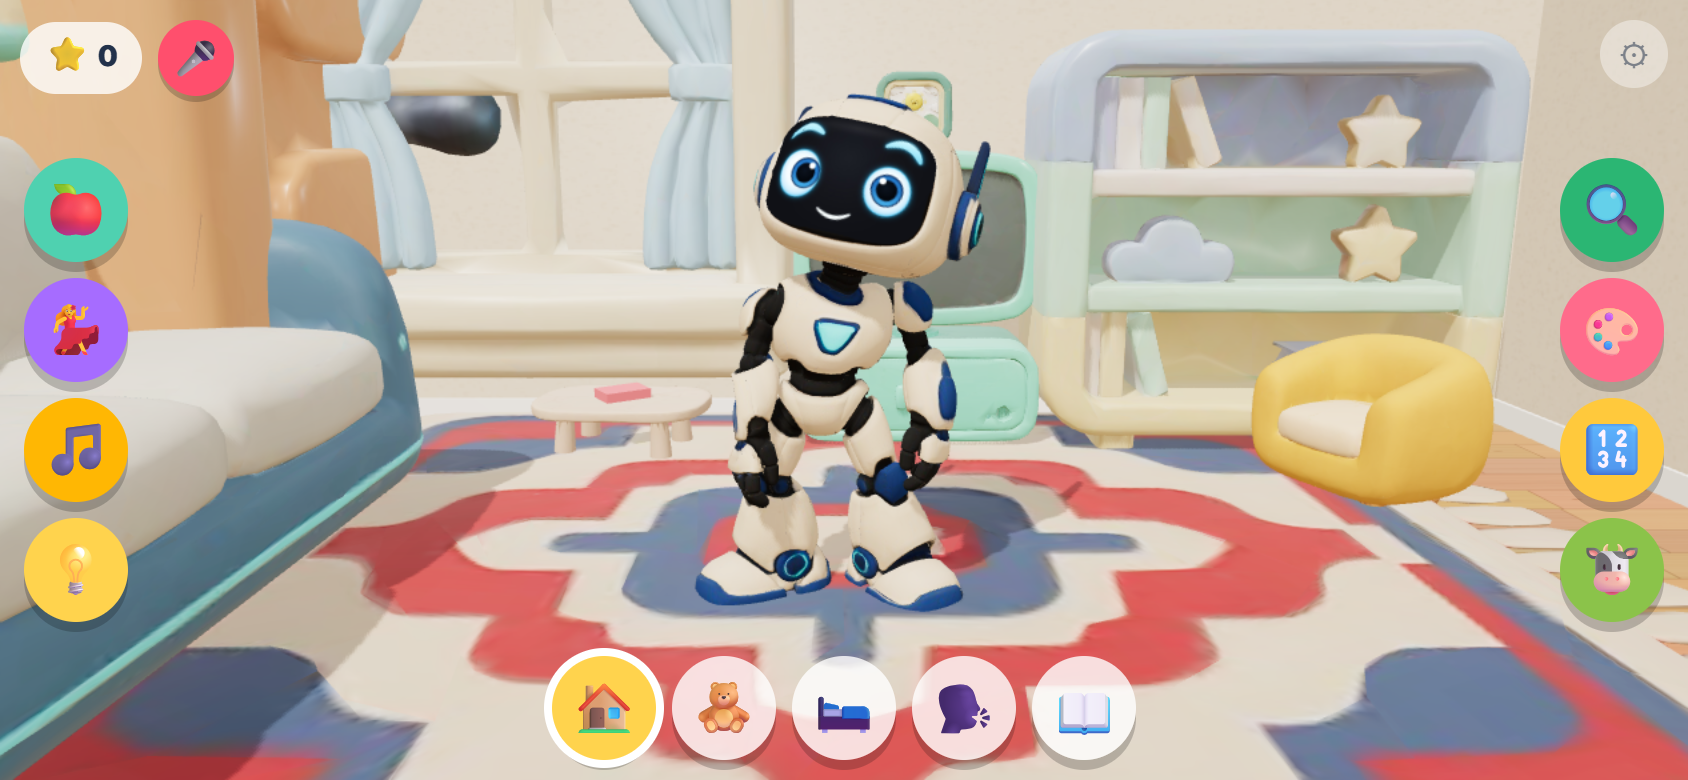
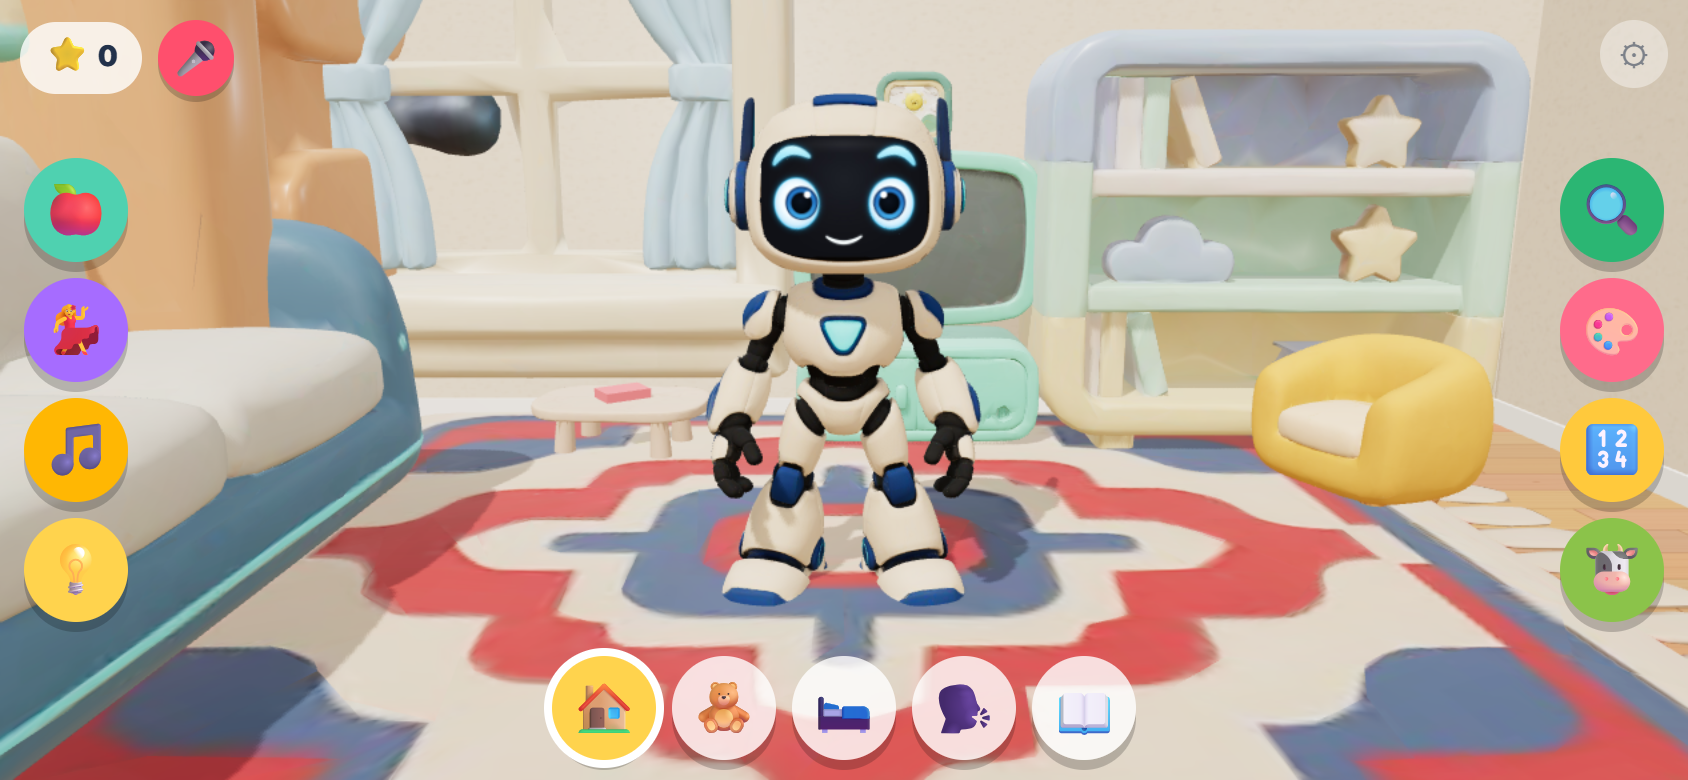
Living room portrait layout (small window, carpet, sofa and armchair in view), ball 2.5x bigger, wardrobe visible on phones

Changed region(s): [[0.4005, 0.1231, 0.6161, 0.8], [0.6161, 0.6154, 0.6469, 0.6769]]

diff --git a/index.html b/index.html
@@ -812,7 +812,8 @@ function setMode(m){
 function wake(){setMode('idle');say('wake');SFX.beep();setFace('shock',600);kick('squash',8);speak()}
 
 // ---------- Ball ----------
-const ball=new THREE.Mesh(new THREE.SphereGeometry(.3,28,20),new THREE.MeshStandardMaterial({color:0xffffff,roughness:.4,
+const BR=.75; // ball radius (2.5x the first one): sets its look, the floor bounce, the tap area and how close Googoo stops
+const ball=new THREE.Mesh(new THREE.SphereGeometry(BR,28,20),new THREE.MeshStandardMaterial({color:0xffffff,roughness:.4,
   map:spriteTex(x=>{x.fillStyle='#fff';x.fillRect(0,0,128,128);x.fillStyle='#ff7a59';for(let i=0;i<4;i++)x.fillRect(i*32,0,16,128)})}));
 ball.castShadow=true;ball.visible=false;scene.add(ball);const BALLMAT=ball.material;
 const bv=new THREE.Vector3();
@@ -1226,11 +1227,11 @@ let propsOn=false;const GOT=new Set(),ASKED=new Set();
 // id: {f file, k size (longest side = RB0.h*k, Googoo = 1), ry, x, z, y, room, cast (casts a shadow: only Googoo and the big furniture), sy (flatten, for rugs), back/side (flush with the back/left wall), nosq (wall piece: no portrait squeeze), off (hidden)}
 const PROPS={
   // living room
-  window:{f:'living_window_curtains',k:1.2,x:-3.3,y:.9,back:1,room:'home'}, tv:{f:'living_tv_cabinet',k:.62,x:.8,back:1,room:'home',cast:1},
+  window:{f:'living_window_curtains',k:1.2,x:-3.3,y:.9,back:1,room:'home',pt:{k:.36,x:-1.6,y:2.4}}, tv:{f:'living_tv_cabinet',k:.62,x:.8,back:1,room:'home',cast:1},
   bookshelf:{f:'living_bookshelf',k:.8,x:4.5,back:1,room:'home',cast:1}, picture:{f:'living_picture_frame',k:.5,x:.8,y:3.2,back:1,room:'home'},
   door:{f:'living_door',k:1.2,ry:Math.PI/2,z:-3.7,side:1,room:'home',nosq:1}, floorlamp:{f:'living_floor_lamp',k:1,ry:.5,x:-6.9,z:-1.5,room:'home',nosq:1},
-  sofa:{f:'living_sofa',k:.95,ry:Math.PI/2,z:1,side:1,room:'home',cast:1,nosq:1}, chair:{f:'living_armchair',k:.6,ry:-1.15,x:5.1,z:-2.4,room:'home'},
-  carpet:{f:'living_carpet_persian',k:1.4,ry:Math.PI/2,x:0,z:-.8,sy:.12,room:'home'}, table:{f:'living_coffee_table',k:.5,ry:Math.PI/2,x:-2.4,z:-3.7,room:'home'},
+  sofa:{f:'living_sofa',k:.95,ry:Math.PI/2,z:1,side:1,room:'home',cast:1,nosq:1,pt:{k:.6,x:-2.3,z:-3.2,ry:0}}, chair:{f:'living_armchair',k:.6,ry:-1.15,x:5.1,z:-2.4,room:'home',pt:{k:.85,x:2.5,z:-2.2,ry:-.6}},
+  carpet:{f:'living_carpet_persian',k:1.4,ry:Math.PI/2,x:0,z:-.8,sy:.12,room:'home',pt:{k:.42,z:.4}}, table:{f:'living_coffee_table',k:.5,ry:Math.PI/2,x:-2.4,z:-3.7,room:'home',pt:{k:.7,x:-1.5,z:-1.1}},
   korsi:{f:'living_korsi',k:.9,x:3,z:-2.8,room:'home',off:1,cast:1}, // winter item: loaded but hidden (off); drop off:1 for the winter season
   // play room (teddy and cow stay in front of Googoo)
   toybox:{f:'toy_box',k:.6,x:-2.6,back:1,room:'play'}, piano:{f:'toy_piano',k:.45,x:.2,back:1,room:'play'}, blocks:{f:'toy_blocks',k:.4,x:2.7,back:1,room:'play'},
@@ -1238,7 +1239,7 @@ const PROPS={
   teddy:{f:'toy_teddy_bear',k:.49,ry:.3,x:-2.1,z:1.6,room:'play'}, cow:{f:'farm_cow',k:.27,ry:-.4,x:2.1,z:1.6,room:'play'},
   // bedroom
   bed:{f:'bedroom_bed',k:.75,ry:-.15,x:-.7,z:-4.9,room:'bed',cast:1}, lamp:{f:'bedroom_lamp',k:.7,x:2.4,z:-4.6,y:.62,room:'bed'},
-  nightstand:{f:'bedroom_nightstand',k:.225,x:2.4,z:-4.6,room:'bed'}, wardrobe:{f:'bedroom_wardrobe',k:.95,x:6,back:1,room:'bed',cast:1,nosq:1}, rug:{f:'bedroom_rug',k:1.2,x:0,z:.2,sy:.12,room:'bed'}};
+  nightstand:{f:'bedroom_nightstand',k:.225,x:2.4,z:-4.6,room:'bed'}, wardrobe:{f:'bedroom_wardrobe',k:.95,x:6,back:1,room:'bed',cast:1,pt:{k:.75,x:2.9}}, rug:{f:'bedroom_rug',k:1.2,x:0,z:.2,sy:.12,room:'bed'}};
 const TEXK=['map','normalMap','roughnessMap','metalnessMap','emissiveMap','aoMap'],FLAT=['carpet','rug']; // floor mats: no tap box, rays pass through (taps on the floor still go home)
 function roomProps(s){winParts.forEach(o=>o.visible=!(GOT.has('window')&&s==='home'));newRug.visible=!(GOT.has('carpet')&&s==='home'||GOT.has('rug')&&s==='bed')}
 function loadProps(room){if(!THREE.GLTFLoader||ASKED.has(room))return;ASKED.add(room);const ld=new THREE.GLTFLoader();
@@ -1250,7 +1251,7 @@ function loadProps(room){if(!THREE.GLTFLoader||ASKED.has(room))return;ASKED.add(
     if(old)furnGroup.remove(old);addF(id,g,x,z,P.ry||0,room);
     m.traverse(o=>{if(o.isMesh){o.castShadow=!!P.cast;o.receiveShadow=true;if(FLAT.includes(id))o.raycast=()=>{}}});
     if(FLAT.includes(id)||id==='bed')g.remove(g.children[g.children.length-1]); // no padded tap box: the big bed's would cover the lamp and nightstand, rugs would swallow floor taps
-    if(P.y)g.position.y=P.y;if(P.nosq)g.userData.nosq=1;if(P.off)g.userData.off=1;
+    if(P.y)g.position.y=P.y;Object.assign(g.userData,{m,base:m.scale.clone(),z0:z,y0:P.y||0,ry0:P.ry||0,top:bb.max.y,pt:P.pt});if(P.nosq)g.userData.nosq=1;if(P.off)g.userData.off=1;
     g.visible=g.userData.room===curRoom&&!g.userData.off;
     if(id==='lamp'){const mt=g.userData.shade=gl.scene.getObjectByProperty('isMesh',true).material;mt.emissive=new THREE.Color(0xffc94d);mt.emissiveMap=mt.map;mt.emissiveIntensity=lightsOn?.15:.6;if(lampLight.parent)g.add(lampLight)}
     if(id==='tv'){const mt=tvMat=gl.scene.getObjectByProperty('isMesh',true).material;mt.emissive=new THREE.Color(0);mt.emissiveMap=mt.map;mt.emissiveIntensity=.4;mt.userData.on=0xffffff}
@@ -1258,8 +1259,12 @@ function loadProps(room){if(!THREE.GLTFLoader||ASKED.has(room))return;ASKED.add(
     if(id==='toybox'){const sh=furnById('shelf');if(sh)furnGroup.remove(sh)} // the primitive toy shelf makes way for the toy box
     GOT.add(id);roomProps(curRoom);resize()}catch(e){console.warn('prop',id,e)}},0,e=>console.warn('prop',id,e))}
   if(room==='play')ld.load(MODELS+'toy_ball.glb',gl=>{try{ // the ball keeps its sphere for physics and taps; its look is the GLB (a child, so it rolls with it)
-    const m=gl.scene;m.scale.setScalar(.6/.97);m.position.y=-.3;m.traverse(o=>{if(o.isMesh){o.raycast=()=>{};o.castShadow=false}});
+    const m=gl.scene;m.scale.setScalar(2*BR/.97);m.position.y=-BR;m.traverse(o=>{if(o.isMesh){o.raycast=()=>{};o.castShadow=false}});
     ball.material=ball.material.clone();ball.material.visible=false;ball.add(m);GOT.add('ball')}catch(e){console.warn('ball',e)}},0,e=>console.warn('ball',e))}
+// portrait overrides (pt: k size factor, x, z, y, ry) so the phone view isn't swamped by big pieces; landscape keeps the PROPS values
+function placeProps(sq){for(const g of furnGroup.children){const u=g.userData,pt=portrait&&u.pt||{};g.position.x=pt.x??u.x0*(u.nosq?1:sq);
+  if(u.z0!==undefined){g.position.z=pt.z??u.z0;g.position.y=pt.y??u.y0;g.rotation.y=pt.ry??u.ry0;u.m.scale.copy(u.base).multiplyScalar(pt.k||1)}}
+  const t=furnById('table'),bk=furnById('book');if(t&&t.userData.m&&bk){bk.userData.x0=t.position.x;bk.position.set(t.position.x,t.userData.top*(t.userData.pt&&portrait?t.userData.pt.k:1),t.position.z)}}
 function furnById(id){return furnGroup.children.find(g=>g.userData.furn===id)}
 const lampLight=new THREE.PointLight(0xffc77a,0,7,2);
 function setLights(on){lightsOn=on;const L=on?ROOM_DAY:ROOM_NIGHT;sun.intensity=L.sun;if(hemiLight)hemiLight.intensity=L.hemi;
@@ -1549,7 +1554,7 @@ function measureRobot(){robot.updateMatrixWorld(true);const b=new THREE.Box3();i
 function resize(){const w=innerWidth,h=innerHeight,cards=scr==='say'||!deck.hidden,toys=itemsGroup.children.length>0;portrait=w<h;
   renderer.setPixelRatio(Math.min(devicePixelRatio,SMALL?1.5:2));renderer.setSize(w,h);camera.aspect=w/h;
   camera.fov=portrait?50:40;
-  const sq=Math.min(1,(portrait?.3:.35)+w/h*.75);furnGroup.children.forEach(g=>g.position.x=g.userData.x0*(g.userData.nosq?1:sq)); // portrait: pull furniture toward the middle so it stays on screen
+  const sq=Math.min(1,(portrait?.3:.35)+w/h*.75);placeProps(sq); // portrait: pull furniture toward the middle so it stays on screen
   camera.clearViewOffset();
   // auto-fit: distance from his measured size so he spans top..bot of the screen, or fits the gap between the rails if that is narrower
   const b=document.querySelector('#nav .rb').offsetWidth,top=portrait?.12:.08,bot=Math.min(portrait?.82:.84,(h-b-24)/h),gap=w-2*(b+34),cy=RB.y0+RB.h/2,
@@ -1596,8 +1601,8 @@ function loop(){
   else if(st.mode==='sleep'){bob=Math.sin(t*1.2)*.04-.05;headYaw=0;st.head=.25+Math.sin(t*1.2)*.03;st.sleepT+=dt;
     if(st.sleepT>1.6){st.sleepT=0;emit('z',new THREE.Vector3(.6,3.5,0),1,{size:.35,life:2,g:.3,grow:.5,vel:()=>new THREE.Vector3(.3,.5,0)});SFX.snore()}}
   else if(st.mode==='chase'&&ball.visible){const dx=ball.position.x-x,dz=ball.position.z-z,d=Math.hypot(dx,dz);
-    yaw=face2(Math.atan2(dx,dz));headYaw=0;if(d>.9){if(walkClip)ggLoco=d>3.2&&ACT.run?'run':'walk_happy';else{x+=dx/d*dt*2.2;z+=dz/d*dt*2.2}wheelL.rotation.x+=dt*8;wheelR.rotation.x+=dt*8}
-    else if(ball.position.y<.5){bv.set(dx/d*3+(Math.random()-.5)*2,4,dz/d*3);SFX.kick();setFace('laugh',700);kick('squash',5);arms.forEach(a=>a.vel+=a.s*8)}
+    yaw=face2(Math.atan2(dx,dz));headYaw=0;if(d>.6+BR){if(walkClip)ggLoco=d>3.2&&ACT.run?'run':'walk_happy';else{x+=dx/d*dt*2.2;z+=dz/d*dt*2.2}wheelL.rotation.x+=dt*8;wheelR.rotation.x+=dt*8}
+    else if(ball.position.y<BR+.2){bv.set(dx/d*3+(Math.random()-.5)*2,4,dz/d*3);SFX.kick();setFace('laugh',700);kick('squash',5);arms.forEach(a=>a.vel+=a.s*8)}
     if(st.modeT>14)goHome()}
   else if(st.mode==='eat'&&food){food.position.y-=dt*1.6;food.rotation.y+=dt*3;
     if(food.position.y<2.6){scene.remove(food);food=null;SFX.munch();setFace('laugh',1500);kick('squash',6);speak();
@@ -1653,7 +1658,7 @@ function loop(){
   peekDip+=((armFwd?1:0)-peekDip)*Math.min(1,dt*8);neck.position.y-=peekDip*.3;head.rotation.x=peekDip*.08;
   if(GG)ggUpdate(dt,t,now,{bob,armWave,armFwd,headYaw,peekDip,sit:sitNow,walk:Math.hypot(x-ox,z-oz)/dt});
   if(ball.visible){bv.y-=9.8*dt;ball.position.addScaledVector(bv,dt);
-    if(ball.position.y<.3){ball.position.y=.3;bv.y*=-.6;bv.x*=.85;bv.z*=.85;if(Math.abs(bv.y)>1)tone(300,200,.05,'sine',.1)}
+    if(ball.position.y<BR){ball.position.y=BR;bv.y*=-.6;bv.x*=.85;bv.z*=.85;if(Math.abs(bv.y)>1)tone(300,200,.05,'sine',.1)}
     const bx=portrait?1.4:4.5,bz=portrait?1:3; // upright: keep the ball on screen and above the buttons
     ball.position.x=THREE.MathUtils.clamp(ball.position.x,-bx,bx);ball.position.z=THREE.MathUtils.clamp(ball.position.z,-3,bz);
     if(Math.abs(ball.position.x)>=bx)bv.x*=-.8;if(ball.position.z>=bz||ball.position.z<=-3)bv.z*=-.8;

diff --git a/src_pash-robot.html b/src_pash-robot.html
@@ -811,7 +811,8 @@ function setMode(m){
 function wake(){setMode('idle');say('wake');SFX.beep();setFace('shock',600);kick('squash',8);speak()}
 
 // ---------- Ball ----------
-const ball=new THREE.Mesh(new THREE.SphereGeometry(.3,28,20),new THREE.MeshStandardMaterial({color:0xffffff,roughness:.4,
+const BR=.75; // ball radius (2.5x the first one): sets its look, the floor bounce, the tap area and how close Googoo stops
+const ball=new THREE.Mesh(new THREE.SphereGeometry(BR,28,20),new THREE.MeshStandardMaterial({color:0xffffff,roughness:.4,
   map:spriteTex(x=>{x.fillStyle='#fff';x.fillRect(0,0,128,128);x.fillStyle='#ff7a59';for(let i=0;i<4;i++)x.fillRect(i*32,0,16,128)})}));
 ball.castShadow=true;ball.visible=false;scene.add(ball);const BALLMAT=ball.material;
 const bv=new THREE.Vector3();
@@ -1225,11 +1226,11 @@ let propsOn=false;const GOT=new Set(),ASKED=new Set();
 // id: {f file, k size (longest side = RB0.h*k, Googoo = 1), ry, x, z, y, room, cast (casts a shadow: only Googoo and the big furniture), sy (flatten, for rugs), back/side (flush with the back/left wall), nosq (wall piece: no portrait squeeze), off (hidden)}
 const PROPS={
   // living room
-  window:{f:'living_window_curtains',k:1.2,x:-3.3,y:.9,back:1,room:'home'}, tv:{f:'living_tv_cabinet',k:.62,x:.8,back:1,room:'home',cast:1},
+  window:{f:'living_window_curtains',k:1.2,x:-3.3,y:.9,back:1,room:'home',pt:{k:.36,x:-1.6,y:2.4}}, tv:{f:'living_tv_cabinet',k:.62,x:.8,back:1,room:'home',cast:1},
   bookshelf:{f:'living_bookshelf',k:.8,x:4.5,back:1,room:'home',cast:1}, picture:{f:'living_picture_frame',k:.5,x:.8,y:3.2,back:1,room:'home'},
   door:{f:'living_door',k:1.2,ry:Math.PI/2,z:-3.7,side:1,room:'home',nosq:1}, floorlamp:{f:'living_floor_lamp',k:1,ry:.5,x:-6.9,z:-1.5,room:'home',nosq:1},
-  sofa:{f:'living_sofa',k:.95,ry:Math.PI/2,z:1,side:1,room:'home',cast:1,nosq:1}, chair:{f:'living_armchair',k:.6,ry:-1.15,x:5.1,z:-2.4,room:'home'},
-  carpet:{f:'living_carpet_persian',k:1.4,ry:Math.PI/2,x:0,z:-.8,sy:.12,room:'home'}, table:{f:'living_coffee_table',k:.5,ry:Math.PI/2,x:-2.4,z:-3.7,room:'home'},
+  sofa:{f:'living_sofa',k:.95,ry:Math.PI/2,z:1,side:1,room:'home',cast:1,nosq:1,pt:{k:.6,x:-2.3,z:-3.2,ry:0}}, chair:{f:'living_armchair',k:.6,ry:-1.15,x:5.1,z:-2.4,room:'home',pt:{k:.85,x:2.5,z:-2.2,ry:-.6}},
+  carpet:{f:'living_carpet_persian',k:1.4,ry:Math.PI/2,x:0,z:-.8,sy:.12,room:'home',pt:{k:.42,z:.4}}, table:{f:'living_coffee_table',k:.5,ry:Math.PI/2,x:-2.4,z:-3.7,room:'home',pt:{k:.7,x:-1.5,z:-1.1}},
   korsi:{f:'living_korsi',k:.9,x:3,z:-2.8,room:'home',off:1,cast:1}, // winter item: loaded but hidden (off); drop off:1 for the winter season
   // play room (teddy and cow stay in front of Googoo)
   toybox:{f:'toy_box',k:.6,x:-2.6,back:1,room:'play'}, piano:{f:'toy_piano',k:.45,x:.2,back:1,room:'play'}, blocks:{f:'toy_blocks',k:.4,x:2.7,back:1,room:'play'},
@@ -1237,7 +1238,7 @@ const PROPS={
   teddy:{f:'toy_teddy_bear',k:.49,ry:.3,x:-2.1,z:1.6,room:'play'}, cow:{f:'farm_cow',k:.27,ry:-.4,x:2.1,z:1.6,room:'play'},
   // bedroom
   bed:{f:'bedroom_bed',k:.75,ry:-.15,x:-.7,z:-4.9,room:'bed',cast:1}, lamp:{f:'bedroom_lamp',k:.7,x:2.4,z:-4.6,y:.62,room:'bed'},
-  nightstand:{f:'bedroom_nightstand',k:.225,x:2.4,z:-4.6,room:'bed'}, wardrobe:{f:'bedroom_wardrobe',k:.95,x:6,back:1,room:'bed',cast:1,nosq:1}, rug:{f:'bedroom_rug',k:1.2,x:0,z:.2,sy:.12,room:'bed'}};
+  nightstand:{f:'bedroom_nightstand',k:.225,x:2.4,z:-4.6,room:'bed'}, wardrobe:{f:'bedroom_wardrobe',k:.95,x:6,back:1,room:'bed',cast:1,pt:{k:.75,x:2.9}}, rug:{f:'bedroom_rug',k:1.2,x:0,z:.2,sy:.12,room:'bed'}};
 const TEXK=['map','normalMap','roughnessMap','metalnessMap','emissiveMap','aoMap'],FLAT=['carpet','rug']; // floor mats: no tap box, rays pass through (taps on the floor still go home)
 function roomProps(s){winParts.forEach(o=>o.visible=!(GOT.has('window')&&s==='home'));newRug.visible=!(GOT.has('carpet')&&s==='home'||GOT.has('rug')&&s==='bed')}
 function loadProps(room){if(!THREE.GLTFLoader||ASKED.has(room))return;ASKED.add(room);const ld=new THREE.GLTFLoader();
@@ -1249,7 +1250,7 @@ function loadProps(room){if(!THREE.GLTFLoader||ASKED.has(room))return;ASKED.add(
     if(old)furnGroup.remove(old);addF(id,g,x,z,P.ry||0,room);
     m.traverse(o=>{if(o.isMesh){o.castShadow=!!P.cast;o.receiveShadow=true;if(FLAT.includes(id))o.raycast=()=>{}}});
     if(FLAT.includes(id)||id==='bed')g.remove(g.children[g.children.length-1]); // no padded tap box: the big bed's would cover the lamp and nightstand, rugs would swallow floor taps
-    if(P.y)g.position.y=P.y;if(P.nosq)g.userData.nosq=1;if(P.off)g.userData.off=1;
+    if(P.y)g.position.y=P.y;Object.assign(g.userData,{m,base:m.scale.clone(),z0:z,y0:P.y||0,ry0:P.ry||0,top:bb.max.y,pt:P.pt});if(P.nosq)g.userData.nosq=1;if(P.off)g.userData.off=1;
     g.visible=g.userData.room===curRoom&&!g.userData.off;
     if(id==='lamp'){const mt=g.userData.shade=gl.scene.getObjectByProperty('isMesh',true).material;mt.emissive=new THREE.Color(0xffc94d);mt.emissiveMap=mt.map;mt.emissiveIntensity=lightsOn?.15:.6;if(lampLight.parent)g.add(lampLight)}
     if(id==='tv'){const mt=tvMat=gl.scene.getObjectByProperty('isMesh',true).material;mt.emissive=new THREE.Color(0);mt.emissiveMap=mt.map;mt.emissiveIntensity=.4;mt.userData.on=0xffffff}
@@ -1257,8 +1258,12 @@ function loadProps(room){if(!THREE.GLTFLoader||ASKED.has(room))return;ASKED.add(
     if(id==='toybox'){const sh=furnById('shelf');if(sh)furnGroup.remove(sh)} // the primitive toy shelf makes way for the toy box
     GOT.add(id);roomProps(curRoom);resize()}catch(e){console.warn('prop',id,e)}},0,e=>console.warn('prop',id,e))}
   if(room==='play')ld.load(MODELS+'toy_ball.glb',gl=>{try{ // the ball keeps its sphere for physics and taps; its look is the GLB (a child, so it rolls with it)
-    const m=gl.scene;m.scale.setScalar(.6/.97);m.position.y=-.3;m.traverse(o=>{if(o.isMesh){o.raycast=()=>{};o.castShadow=false}});
+    const m=gl.scene;m.scale.setScalar(2*BR/.97);m.position.y=-BR;m.traverse(o=>{if(o.isMesh){o.raycast=()=>{};o.castShadow=false}});
     ball.material=ball.material.clone();ball.material.visible=false;ball.add(m);GOT.add('ball')}catch(e){console.warn('ball',e)}},0,e=>console.warn('ball',e))}
+// portrait overrides (pt: k size factor, x, z, y, ry) so the phone view isn't swamped by big pieces; landscape keeps the PROPS values
+function placeProps(sq){for(const g of furnGroup.children){const u=g.userData,pt=portrait&&u.pt||{};g.position.x=pt.x??u.x0*(u.nosq?1:sq);
+  if(u.z0!==undefined){g.position.z=pt.z??u.z0;g.position.y=pt.y??u.y0;g.rotation.y=pt.ry??u.ry0;u.m.scale.copy(u.base).multiplyScalar(pt.k||1)}}
+  const t=furnById('table'),bk=furnById('book');if(t&&t.userData.m&&bk){bk.userData.x0=t.position.x;bk.position.set(t.position.x,t.userData.top*(t.userData.pt&&portrait?t.userData.pt.k:1),t.position.z)}}
 function furnById(id){return furnGroup.children.find(g=>g.userData.furn===id)}
 const lampLight=new THREE.PointLight(0xffc77a,0,7,2);
 function setLights(on){lightsOn=on;const L=on?ROOM_DAY:ROOM_NIGHT;sun.intensity=L.sun;if(hemiLight)hemiLight.intensity=L.hemi;
@@ -1548,7 +1553,7 @@ function measureRobot(){robot.updateMatrixWorld(true);const b=new THREE.Box3();i
 function resize(){const w=innerWidth,h=innerHeight,cards=scr==='say'||!deck.hidden,toys=itemsGroup.children.length>0;portrait=w<h;
   renderer.setPixelRatio(Math.min(devicePixelRatio,SMALL?1.5:2));renderer.setSize(w,h);camera.aspect=w/h;
   camera.fov=portrait?50:40;
-  const sq=Math.min(1,(portrait?.3:.35)+w/h*.75);furnGroup.children.forEach(g=>g.position.x=g.userData.x0*(g.userData.nosq?1:sq)); // portrait: pull furniture toward the middle so it stays on screen
+  const sq=Math.min(1,(portrait?.3:.35)+w/h*.75);placeProps(sq); // portrait: pull furniture toward the middle so it stays on screen
   camera.clearViewOffset();
   // auto-fit: distance from his measured size so he spans top..bot of the screen, or fits the gap between the rails if that is narrower
   const b=document.querySelector('#nav .rb').offsetWidth,top=portrait?.12:.08,bot=Math.min(portrait?.82:.84,(h-b-24)/h),gap=w-2*(b+34),cy=RB.y0+RB.h/2,
@@ -1595,8 +1600,8 @@ function loop(){
   else if(st.mode==='sleep'){bob=Math.sin(t*1.2)*.04-.05;headYaw=0;st.head=.25+Math.sin(t*1.2)*.03;st.sleepT+=dt;
     if(st.sleepT>1.6){st.sleepT=0;emit('z',new THREE.Vector3(.6,3.5,0),1,{size:.35,life:2,g:.3,grow:.5,vel:()=>new THREE.Vector3(.3,.5,0)});SFX.snore()}}
   else if(st.mode==='chase'&&ball.visible){const dx=ball.position.x-x,dz=ball.position.z-z,d=Math.hypot(dx,dz);
-    yaw=face2(Math.atan2(dx,dz));headYaw=0;if(d>.9){if(walkClip)ggLoco=d>3.2&&ACT.run?'run':'walk_happy';else{x+=dx/d*dt*2.2;z+=dz/d*dt*2.2}wheelL.rotation.x+=dt*8;wheelR.rotation.x+=dt*8}
-    else if(ball.position.y<.5){bv.set(dx/d*3+(Math.random()-.5)*2,4,dz/d*3);SFX.kick();setFace('laugh',700);kick('squash',5);arms.forEach(a=>a.vel+=a.s*8)}
+    yaw=face2(Math.atan2(dx,dz));headYaw=0;if(d>.6+BR){if(walkClip)ggLoco=d>3.2&&ACT.run?'run':'walk_happy';else{x+=dx/d*dt*2.2;z+=dz/d*dt*2.2}wheelL.rotation.x+=dt*8;wheelR.rotation.x+=dt*8}
+    else if(ball.position.y<BR+.2){bv.set(dx/d*3+(Math.random()-.5)*2,4,dz/d*3);SFX.kick();setFace('laugh',700);kick('squash',5);arms.forEach(a=>a.vel+=a.s*8)}
     if(st.modeT>14)goHome()}
   else if(st.mode==='eat'&&food){food.position.y-=dt*1.6;food.rotation.y+=dt*3;
     if(food.position.y<2.6){scene.remove(food);food=null;SFX.munch();setFace('laugh',1500);kick('squash',6);speak();
@@ -1652,7 +1657,7 @@ function loop(){
   peekDip+=((armFwd?1:0)-peekDip)*Math.min(1,dt*8);neck.position.y-=peekDip*.3;head.rotation.x=peekDip*.08;
   if(GG)ggUpdate(dt,t,now,{bob,armWave,armFwd,headYaw,peekDip,sit:sitNow,walk:Math.hypot(x-ox,z-oz)/dt});
   if(ball.visible){bv.y-=9.8*dt;ball.position.addScaledVector(bv,dt);
-    if(ball.position.y<.3){ball.position.y=.3;bv.y*=-.6;bv.x*=.85;bv.z*=.85;if(Math.abs(bv.y)>1)tone(300,200,.05,'sine',.1)}
+    if(ball.position.y<BR){ball.position.y=BR;bv.y*=-.6;bv.x*=.85;bv.z*=.85;if(Math.abs(bv.y)>1)tone(300,200,.05,'sine',.1)}
     const bx=portrait?1.4:4.5,bz=portrait?1:3; // upright: keep the ball on screen and above the buttons
     ball.position.x=THREE.MathUtils.clamp(ball.position.x,-bx,bx);ball.position.z=THREE.MathUtils.clamp(ball.position.z,-3,bz);
     if(Math.abs(ball.position.x)>=bx)bv.x*=-.8;if(ball.position.z>=bz||ball.position.z<=-3)bv.z*=-.8;

diff --git a/sw.js b/sw.js
@@ -1,6 +1,6 @@
 // Googoo Robo service worker. tools/build.py rewrites the two versions below on every build:
 // a new page build = new shell cache, new/changed audio = new audio cache; old caches are deleted on activate.
-const SHELL_V='ea03492ce1',AUDIO_V='92904cdb22',SHELL='googoo-shell-'+SHELL_V,AUDIO='googoo-audio-'+AUDIO_V;
+const SHELL_V='6d67462090',AUDIO_V='92904cdb22',SHELL='googoo-shell-'+SHELL_V,AUDIO='googoo-audio-'+AUDIO_V;
 const PRE=['./','manifest.webmanifest','icons/icon-192.png','icons/icon-512.png','icons/apple-touch-icon.png','audio/manifest.json','vocab/stories.json',
   'https://cdnjs.cloudflare.com/ajax/libs/three.js/r128/three.min.js',
   'https://cdn.jsdelivr.net/npm/three@0.128.0/examples/js/loaders/GLTFLoader.js',
